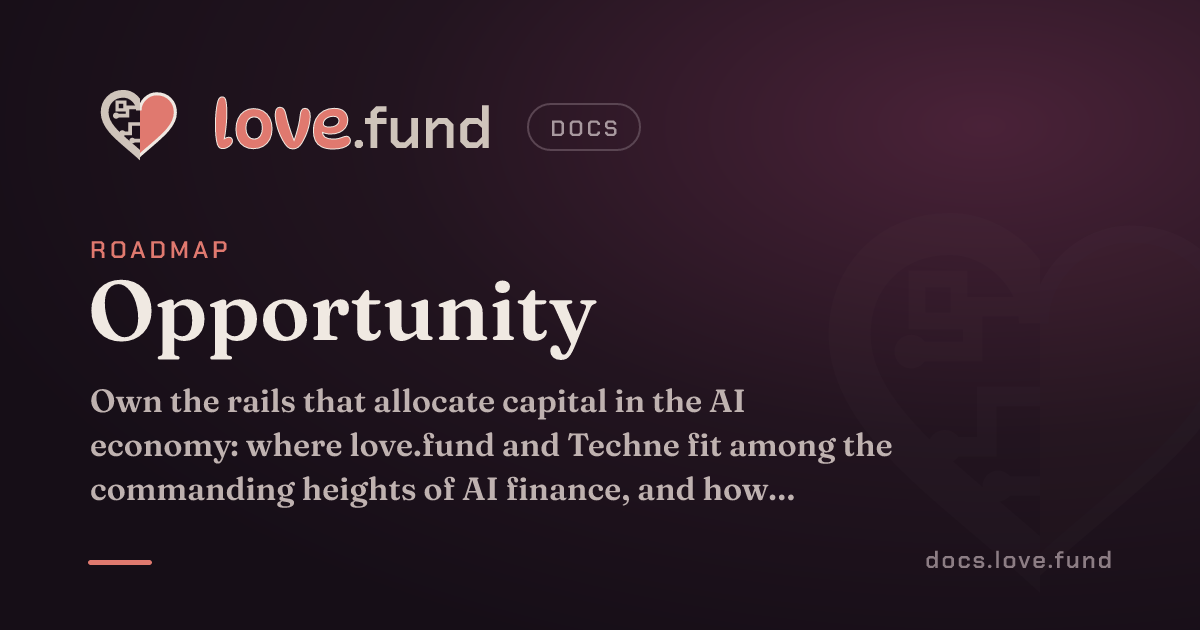
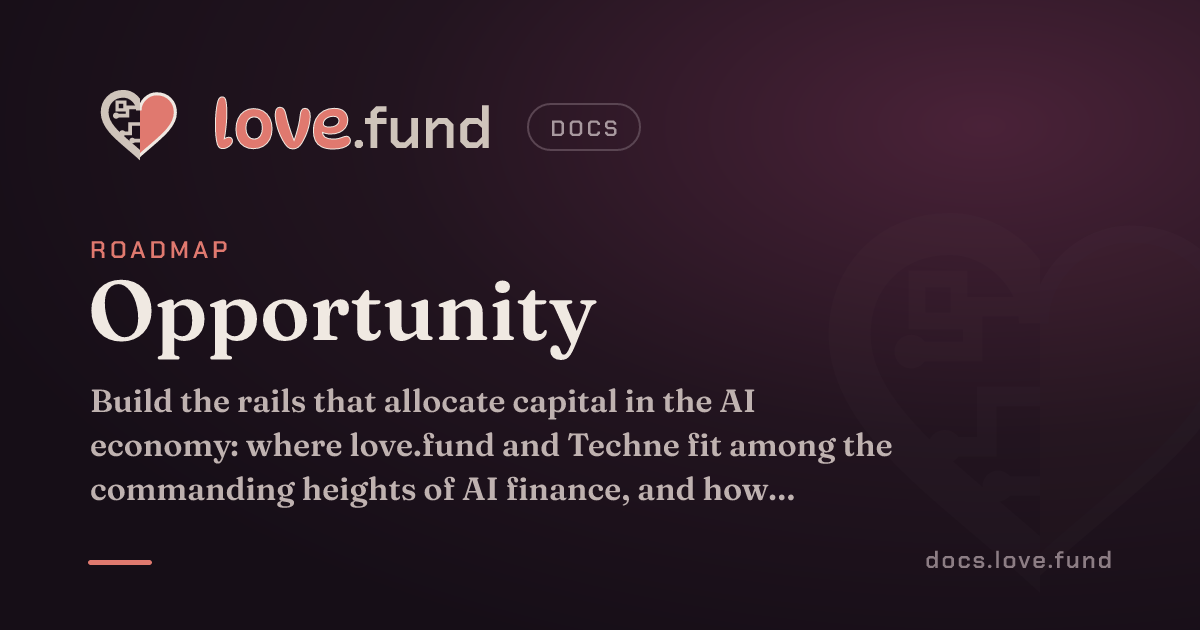
update

Changed region(s): [[0.0617, 0.6032, 0.6475, 0.6635]]

diff --git a/src/content/docs/roadmap/opportunity.md b/src/content/docs/roadmap/opportunity.md
@@ -1,6 +1,6 @@
 ---
 title: "Opportunity"
-description: "Own the rails that allocate capital in the AI economy: where love.fund and Techne fit among the commanding heights of AI finance, and how those rails bridge people into a sacred economy."
+description: "Build the rails that allocate capital in the AI economy: where love.fund and Techne fit among the commanding heights of AI finance, and how those rails bridge people into a sacred economy."
 sidebar:
   order: 0
 ---
@@ -12,12 +12,12 @@ This page maps market categories, not services love.fund offers. love.fund doesn
 **TLDR:**
 
 0. Commanding heights = The chokepoints that control an economy, and the flows that run through them.
-1. Own the commanding heights of the traditional economy.
-2. Own the commanding heights of the [sacred economy](#rails-for-a-sacred-economy).
+1. Build the commanding heights of the traditional economy.
+2. Build the commanding heights of the [sacred economy](#seven-rails-for-a-sacred-economy).
 3. Build a funnel from 1 to 2.
 4. Progressively distribute ownership of the commanding heights in both economies.
 
-## The opportunity: own the rails that allocate capital in the AI economy
+## The opportunity: build the rails that allocate capital in the AI economy
 
 The core insight of [The Commanding Heights](https://commanding-heights.com) is that the biggest fortunes won't necessarily come from creating intelligence, but from controlling how its economic value flows.
 
@@ -36,14 +36,14 @@ The emerging commanding height in finance isn't just payments or stablecoins. It
 
 ## Commanding heights of a more sacred economy
 
-Owning the commanding heights of the commodified, transactional global economy isn't the end goal. love.fund is also focused on building a [sacred economy](/start-here/dialectics/sacred-global-economy/): one where the economy serves what people hold sacred, like relationships, community, and the living world.
+Owning the commanding heights of the commodified, transactional global economy isn't the end goal. love.fund is also focused on building a [sacred economy](/ontology/dialectics/sacred-global-economy/): one where the economy serves what people hold sacred, like relationships, community, and the living world.
 
 So we want to build two sets of rails:
 
 - **Rails for the old economy.** The commanding heights above: capital discovery, allocation, underwriting, formation, and ownership. We run them at first, and progressively decentralize them to the people who use them.
 - **Rails for a more sacred, relational economy.** Infrastructure where value flows through trust and relationships instead of extraction, and where what matters gets funded even when it can't be priced.
 
-The first set is the bridge to the second. We meet people where they are, in the economy most of the world runs on, and use those rails to move them, and their capital, into a new sacred economy. (See [Towards a more sacred economy](/start-here/dialectics/sacred-global-economy/#towards-a-more-sacred-economy).)
+The first set is the bridge to the second. We meet people where they are, in the economy most of the world runs on, and use those rails to move them, and their capital, into a new sacred economy. (See [Towards a more sacred economy](/ontology/dialectics/sacred-global-economy/#towards-a-more-sacred-economy).)
 
 ### Seven rails for a sacred economy
 
@@ -51,13 +51,13 @@ Working backwards from what we've written about a sacred economy, the rails foll
 
 | Rail | What it does | Where it comes from | Closest trad commanding height |
 | --- | --- | --- | --- |
-| **1. Shield** | Patient, no-strings, multi-year capital that buys a community time and room, so it doesn't have to sell out to survive | [Sacred x Global](/start-here/dialectics/sacred-global-economy/), [Short x Long-term](/start-here/dialectics/short-long-term/) | Capital formation |
-| **2. Weave** | The trust fabric: vouching, reputation built over time, many kinds of evidence. Dreams, community plans and indigenous knowledge only become an economy when braided together | [Sacred x Global](/start-here/dialectics/sacred-global-economy/), [Trust x Verification](/start-here/dialectics/trust-verification/) | Discovery + underwriting |
-| **3. Gift** | Money that keeps moving toward need and love, passed forward instead of paid back, with enough accounting to stay fair | [Gift x Exchange](/start-here/dialectics/gift-exchange/) | Allocation (impact) |
-| **4. Meaning** | Communities name what matters in their own words first.  | [Measurement x Meaning](/start-here/dialectics/measurement-meaning/) | None: the old economy uses price |
-| **5. Boundary** | A governed commons: the right to say no, protection from capture, share-alike licenses, and things kept outside the market entirely | [Openness x Boundaries](/start-here/dialectics/openness-boundaries/), [Sovereignty x Interdependence](/start-here/dialectics/sovereignty-interdependence/) | Ownership, inverted: protecting instead of capturing |
-| **6. Membrane** | The interface where outside money enters on the community's terms and gets translated into its values, when the community decides it's ready | [Sacred x Global](/start-here/dialectics/sacred-global-economy/), [Local x Global](/start-here/dialectics/local-global/) | None |
-| **7. Federation** | Communities connecting directly to each other, not only through global intermediaries | [Local x Global](/start-here/dialectics/local-global/), [Sovereignty x Interdependence](/start-here/dialectics/sovereignty-interdependence/) | None |
+| **1. Shield** | Patient, no-strings, multi-year capital that buys a community time and room, so it doesn't have to sell out to survive | [Sacred x Global](/ontology/dialectics/sacred-global-economy/), [Short x Long-term](/ontology/dialectics/short-long-term/) | Capital formation |
+| **2. Weave** | The trust fabric: vouching, reputation built over time, many kinds of evidence. Dreams, community plans and indigenous knowledge only become an economy when braided together | [Sacred x Global](/ontology/dialectics/sacred-global-economy/), [Trust x Verification](/ontology/dialectics/trust-verification/) | Discovery + underwriting |
+| **3. Gift** | Money that keeps moving toward need and love, passed forward instead of paid back, with enough accounting to stay fair | [Gift x Exchange](/ontology/dialectics/gift-exchange/) | Allocation (impact) |
+| **4. Meaning** | Communities name what matters in their own words first.  | [Measurement x Meaning](/ontology/dialectics/measurement-meaning/) | None: the old economy uses price |
+| **5. Boundary** | A governed commons: the right to say no, protection from capture, share-alike licenses, and things kept outside the market entirely | [Openness x Boundaries](/ontology/dialectics/openness-boundaries/), [Sovereignty x Interdependence](/ontology/dialectics/sovereignty-interdependence/) | Ownership, inverted: protecting instead of capturing |
+| **6. Membrane** | The interface where outside money enters on the community's terms and gets translated into its values, when the community decides it's ready | [Sacred x Global](/ontology/dialectics/sacred-global-economy/), [Local x Global](/ontology/dialectics/local-global/) | None |
+| **7. Federation** | Communities connecting directly to each other, not only through global intermediaries | [Local x Global](/ontology/dialectics/local-global/), [Sovereignty x Interdependence](/ontology/dialectics/sovereignty-interdependence/) | None |
 
 A few things stand out:
 

diff --git a/src/content/docs/ontology/beyond-dualism.md b/src/content/docs/ontology/beyond-dualism.md
@@ -11,6 +11,15 @@ We tend to treat these as binary choices - and much of contemporary discourse on
 
 The goal isn't always to choose a side. It's to find out what becomes possible when both sides interact.
 
+## Why this is useful
+
+The fruits of this exploration are:
+
+- **Innovation.** Apparent contradictions can point to design spaces nobody has explored.
+- **Coordination.** Opposing interests can become complementary incentives.
+- **Wisdom.** Holding competing truths keeps you from ideological rigidity.
+- **Systems design.** A good synthesis can turn a zero-sum tradeoff into a positive-sum feedback loop.
+
 ## Skillful Action
 
 There are a few skillful moves you can make with a pair of opposites, and it helps to be able to toggle between them.
@@ -42,15 +51,6 @@ A good synthesis keeps the strengths of both poles and opens up a new possibilit
 4. **Balance** the poles when synthesis isn't possible or isn't wanted.
 5. **Iterate**, because every synthesis produces new tensions of its own.
 
-## Why this is useful
-
-The fruits of this exploration are:
-
-- **Innovation.** Apparent contradictions can point to design spaces nobody has explored.
-- **Coordination.** Opposing interests can become complementary incentives.
-- **Wisdom.** Holding competing truths keeps you from ideological rigidity.
-- **Systems design.** A good synthesis can turn a zero-sum tradeoff into a positive-sum feedback loop.
-
 ## Where it breaks down
 
 Not every contradiction deserves a synthesis. Some differences can't be reconciled, and some values need hard boundaries. Sometimes a proposed synthesis is just a tradeoff in disguise.
@@ -76,17 +76,17 @@ The dialectics that follow this page in the sidebar each take one pair and work 
 
 | Dualism | Potential synthesis |
 | --- | --- |
-| [Love ↔ Money](/start-here/dialectic/) | Regenerative economics: capital flows toward what we care about |
-| [Sovereignty ↔ Interdependence](/start-here/dialectics/sovereignty-interdependence/) (including individualism ↔ collectivism) | Networked sovereignty: autonomy strengthened through voluntary cooperation |
-| [Profit ↔ Purpose](/start-here/dialectics/profit-purpose/) | Regenerative enterprise: creating economic value by creating social and ecological value |
-| [Networks ↔ Hierarchies](/start-here/dialectics/networks-hierarchies/) | Heterarchy: clear ownership inside small units, open connection between them |
-| [Gift ↔ Exchange](/start-here/dialectics/gift-exchange/) | A gift economy with good accounting: money that circulates like a gift and stays fair |
-| [Scarcity ↔ Abundance](/start-here/dialectics/scarcity-abundance/) | Regenerative abundance: spend finite resources on the things that multiply |
-| [Measurement ↔ Meaning](/start-here/dialectics/measurement-meaning/) | Measurement in service of meaning: people name what matters, numbers help them learn |
-| [Local ↔ Global](/start-here/dialectics/local-global/) | Cosmolocal: global networks of local communities |
-| [Short-term ↔ Long-term](/start-here/dialectics/short-long-term/) | Stewardship: meet today's needs in ways that build for generations |
-| [Trust ↔ Verification](/start-here/dialectics/trust-verification/) | Verifiable trust: proof that extends trust beyond the people you know |
-| [Openness ↔ Boundaries](/start-here/dialectics/openness-boundaries/) | A governed commons: open by default, bounded where it counts |
-| [Being ↔ Doing](/start-here/dialectics/being-doing/) | Dharma: action that comes from presence |
-| [Global economy ↔ Sacred economy](/start-here/dialectics/sacred-global-economy/) | A sacred economy that meets the global one on its own terms |
-| [Competition ↔ Cooperation](/start-here/dialectics/competition-cooperation/) | Coopetition: competing to create more value for the commons |
+| [Love ↔ Money](/ontology/dialectic/) | Regenerative economics: capital flows toward what we care about |
+| [Sovereignty ↔ Interdependence](/ontology/dialectics/sovereignty-interdependence/) (including individualism ↔ collectivism) | Networked sovereignty: autonomy strengthened through voluntary cooperation |
+| [Profit ↔ Purpose](/ontology/dialectics/profit-purpose/) | Regenerative enterprise: creating economic value by creating social and ecological value |
+| [Networks ↔ Hierarchies](/ontology/dialectics/networks-hierarchies/) | Heterarchy: clear ownership inside small units, open connection between them |
+| [Gift ↔ Exchange](/ontology/dialectics/gift-exchange/) | A gift economy with good accounting: money that circulates like a gift and stays fair |
+| [Scarcity ↔ Abundance](/ontology/dialectics/scarcity-abundance/) | Regenerative abundance: spend finite resources on the things that multiply |
+| [Measurement ↔ Meaning](/ontology/dialectics/measurement-meaning/) | Measurement in service of meaning: people name what matters, numbers help them learn |
+| [Local ↔ Global](/ontology/dialectics/local-global/) | Cosmolocal: global networks of local communities |
+| [Short-term ↔ Long-term](/ontology/dialectics/short-long-term/) | Stewardship: meet today's needs in ways that build for generations |
+| [Trust ↔ Verification](/ontology/dialectics/trust-verification/) | Verifiable trust: proof that extends trust beyond the people you know |
+| [Openness ↔ Boundaries](/ontology/dialectics/openness-boundaries/) | A governed commons: open by default, bounded where it counts |
+| [Being ↔ Doing](/ontology/dialectics/being-doing/) | Dharma: action that comes from presence |
+| [Global economy ↔ Sacred economy](/ontology/dialectics/sacred-global-economy/) | A sacred economy that meets the global one on its own terms |
+| [Competition ↔ Cooperation](/ontology/dialectics/competition-cooperation/) | Coopetition: competing to create more value for the commons |

diff --git a/src/content/docs/roadmap/design-space.md b/src/content/docs/roadmap/design-space.md
@@ -29,13 +29,13 @@ Each era didn't replace the last. It layered on top. Rotating savings clubs, mut
 - **The tools change what's possible.** Writing gave us ledgers, coins gave us markets, the internet gave us crowdfunding, and blockchains gave us programmable treasuries. AI agents are the next shift: allocation that can read context, relationships and impact at a scale no committee could.
 - **The design space is a landscape.** Think of every possible rule or mechanism as a point on a flat grid, and how well everyone does under it as the height. Most of history has been a slow walk across that landscape. We can now search it deliberately, by remixing known mechanisms and testing new ones.
 - **Some of the best points haven't been built yet.** Combinations like retroactive quadratic funding, or a bonding curve that prices attested impact instead of market demand, are a few small edits away from mechanisms we already know.
-- **The oldest mechanisms are the most relational.** Many of the [sacred economy rails](/roadmap/opportunity/#rails-for-a-sacred-economy) we want to build, like gift, trust, commons and federation, were the default in earlier eras. The opportunity is to bring them back with the reach of modern tools.
+- **The oldest mechanisms are the most relational.** Many of the [sacred economy rails](/roadmap/opportunity/#seven-rails-for-a-sacred-economy) we want to build, like gift, trust, commons and federation, were the default in earlier eras. The opportunity is to bring them back with the reach of modern tools.
 
 ## Ancient futures
 
 The design space doesn't only point forward. Some of the most important mechanisms are the oldest ones: gift circles, mutual aid, commons, rotating savings, redistribution feasts, the ethic of Ubuntu ("I am because we are"). They kept people fed and held for thousands of years, long before banks, insurers or welfare states existed.
 
-To borrow Helena Norberg-Hodge's phrase, the future we want looks more like an **ancient future**. Not a return to the past, but a chance to re-indigenize and re-relationalize ourselves: to remember that an economy is made of relationships, with each other and with the living world, and to rebuild it that way with the tools of this era. That's what a [sacred economy](/start-here/dialectics/sacred-global-economy/) is.
+To borrow Helena Norberg-Hodge's phrase, the future we want looks more like an **ancient future**. Not a return to the past, but a chance to re-indigenize and re-relationalize ourselves: to remember that an economy is made of relationships, with each other and with the living world, and to rebuild it that way with the tools of this era. That's what a [sacred economy](/ontology/dialectics/sacred-global-economy/) is.
 
 This matters now because the old systems are breaking down. Jobs are being automated faster than people can retrain, institutions people counted on are under strain, and the safety nets of the industrial era were built for a world that's going away. When they fray, what's left is what has always been there: community.
 

diff --git a/src/content/docs/ontology/dialectics/sacred-global-economy.md b/src/content/docs/ontology/dialectics/sacred-global-economy.md
@@ -9,7 +9,7 @@ The modern global economy is the system most of the world runs on: markets, capi
 
 They look opposed. The global economy is powerful, productive and connected, but it tends to extract, flatten difference and turn everything into a commodity. A sacred economy is rooted, meaningful and regenerative, but on its own it can be small, under-resourced and vulnerable to being overrun.
 
-This page looks at the tension between them, then at a picture of the journey from one to the other. (For the general method, see [Beyond Dualism](/start-here/beyond-dualism/).)
+This page looks at the tension between them, then at a picture of the journey from one to the other. (For the general method, see [Beyond Dualism](/ontology/beyond-dualism/).)
 
 ## The dialectic
 
@@ -61,7 +61,7 @@ Two details stand out. First, it's woven: these threads only become an economy w
 
 ### What it means for love.fund
 
-This is a picture of what [Love x Fund](/start-here/dialectic/) is reaching for: money that serves what people love, rather than people serving money. It suggests a few things about how we fund:
+This is a picture of what [Love x Fund](/ontology/dialectic/) is reaching for: money that serves what people love, rather than people serving money. It suggests a few things about how we fund:
 
 - **Funding can be protective.** Sometimes the most useful thing money can do is give a community room to learn without having to sell out to survive.
 - **Let communities set the pace.** "When you feel ready" is their call, not the funder's.
@@ -93,4 +93,4 @@ The point is that the boundary is the community's to draw.
 
 The global economy without the sacred becomes extraction. The sacred without any interface to the wider world becomes fragile.
 
-Done well, each one feeds the other. A sacred economy gives money a compass, and the global economy gives the sacred the tools and reach to grow. This is what [Love x Fund](/start-here/dialectic/) is reaching for: money that serves what people love, rather than people serving money.
+Done well, each one feeds the other. A sacred economy gives money a compass, and the global economy gives the sacred the tools and reach to grow. This is what [Love x Fund](/ontology/dialectic/) is reaching for: money that serves what people love, rather than people serving money.

diff --git a/src/content/docs/ontology/dialectics/local-global.md b/src/content/docs/ontology/dialectics/local-global.md
@@ -9,7 +9,7 @@ The local is a particular place and its people: their land, language, knowledge 
 
 They look opposed. Local communities are rooted, specific and accountable, but they can be isolated, under-resourced and parochial. Global systems are powerful, connected and resource-rich, but they tend to flatten difference, extract value and set the terms from far away.
 
-This connects closely to [Sovereignty x Interdependence](/start-here/dialectics/sovereignty-interdependence/) and to the picture in [Towards a More Sacred Economy](/start-here/dialectics/sacred-global-economy/#towards-a-more-sacred-economy). The question is how the global can serve the local rather than consume it. (For the general method, see [Beyond Dualism](/start-here/beyond-dualism/).)
+This connects closely to [Sovereignty x Interdependence](/ontology/dialectics/sovereignty-interdependence/) and to the picture in [Towards a More Sacred Economy](/ontology/dialectics/sacred-global-economy/#towards-a-more-sacred-economy). The question is how the global can serve the local rather than consume it. (For the general method, see [Beyond Dualism](/ontology/beyond-dualism/).)
 
 ## The dialectic
 
@@ -36,7 +36,7 @@ But it can flow the other way too. Global capital and knowledge can move toward 
 
 - **Global funding, local decisions.** Money can come from anywhere. What to do with it gets decided by the people who live there.
 - **Shared knowledge, local adaptation.** Open tools and designs that each community shapes to its own place.
-- **Shield first, then interface.** As in [Towards a More Sacred Economy](/start-here/dialectics/sacred-global-economy/#towards-a-more-sacred-economy), communities build their own economy before they meet the global one on their own terms.
+- **Shield first, then interface.** As in [Towards a More Sacred Economy](/ontology/dialectics/sacred-global-economy/#towards-a-more-sacred-economy), communities build their own economy before they meet the global one on their own terms.
 - **Solidarity across places.** Local communities connecting to each other directly, not only through global intermediaries.
 
 ## When to hold them apart

diff --git a/src/content/docs/ontology/dialectics/sovereignty-interdependence.md b/src/content/docs/ontology/dialectics/sovereignty-interdependence.md
@@ -9,7 +9,7 @@ Sovereignty is the ability to decide for yourself: your own values, your own res
 
 They look opposed. More of one seems to mean less of the other. Lean too far toward sovereignty and you end up isolated. Lean too far toward interdependence and you end up dependent.
 
-The question is whether you can design for both at once. (For the general method, see [Beyond Dualism](/start-here/beyond-dualism/).)
+The question is whether you can design for both at once. (For the general method, see [Beyond Dualism](/ontology/beyond-dualism/).)
 
 ## The dialectic
 
@@ -34,7 +34,7 @@ That's true of ties you can't leave. It's much less true of ties you chose and c
 
 ## What it looks like in practice
 
-- **Communities that can say no.** In the [Towards a More Sacred Economy](/start-here/dialectics/sacred-global-economy/#towards-a-more-sacred-economy) picture, finance first shields a community from extraction while it builds its own economy, then lets it meet the wider economy on its own terms. That's sovereignty first, then interdependence by choice.
+- **Communities that can say no.** In the [Towards a More Sacred Economy](/ontology/dialectics/sacred-global-economy/#towards-a-more-sacred-economy) picture, finance first shields a community from extraction while it builds its own economy, then lets it meet the wider economy on its own terms. That's sovereignty first, then interdependence by choice.
 - **Funding without capture.** Money can connect a project to a wider network without handing over control of what the project is for.
 - **Federation over centralization.** Many small, self-governing groups that coordinate where it helps, rather than one big group that decides for everyone.
 - **Mutual aid.** People keep their independence and still show up for each other, because the relationship is reciprocal and freely chosen.

diff --git a/src/content/docs/ontology/index.md b/src/content/docs/ontology/index.md
@@ -25,7 +25,7 @@ What you see on social media these days is mostly these tribes talking past each
 
 That raises a hard question: how can we understand the points other people are making when we don't have an ontological transmission protocol, and most of us can't think from inside another ontology?
 
-Our starting point for this is [Beyond Dualism](/start-here/beyond-dualism/).
+Our starting point for this is [Beyond Dualism](/ontology/beyond-dualism/).
 
 ## Start with ontology
 
@@ -33,9 +33,9 @@ Our ontology informs everything we do: the mission, the roadmap, the mechanisms 
 
 So we try to make ours explicit. The pages in this section lay it out:
 
-- **[Mission: Fund What Matters](/start-here/fund-what-matters/)**: what we're for.
-- **[Beyond Dualism](/start-here/beyond-dualism/)**: how we work with opposites like love and money, rather than choosing between them.
-- **[Dialectic: Love x Funding](/start-here/dialectic/)** and the dialectics that follow: the tensions at the heart of a new economy, and what each side protects.
-- **[The Upward Spiral](/start-here/upward-spiral/)**: how those tensions, held well, feed each other and move upward.
+- **[Mission: Fund What Matters](/ontology/fund-what-matters/)**: what we're for.
+- **[Beyond Dualism](/ontology/beyond-dualism/)**: how we work with opposites like love and money, rather than choosing between them.
+- **[Dialectic: Love x Funding](/ontology/dialectic/)** and the dialectics that follow: the tensions at the heart of a new economy, and what each side protects.
+- **[The Upward Spiral](/ontology/upward-spiral/)**: how those tensions, held well, feed each other and move upward.
 
 It's a living ontology. We expect it to change as we learn, and we'd rather argue about it in the open than leave it unexamined.

diff --git a/src/content/docs/ontology/dialectics/scarcity-abundance.md b/src/content/docs/ontology/dialectics/scarcity-abundance.md
@@ -9,7 +9,7 @@ Scarcity is the fact that resources run out. There are only so many hours, so mu
 
 They look opposed. A scarcity mindset is prudent and realistic, but it can turn into hoarding, fear and zero-sum competition. An abundance mindset is generous and hopeful, but it can turn into denial, waste and promises nobody can keep.
 
-The [Love x Funding](/start-here/dialectic/) page says it plainly: love is infinite, resources are finite. The question is how to live with both. (For the general method, see [Beyond Dualism](/start-here/beyond-dualism/).)
+The [Love x Funding](/ontology/dialectic/) page says it plainly: love is infinite, resources are finite. The question is how to live with both. (For the general method, see [Beyond Dualism](/ontology/beyond-dualism/).)
 
 ## The dialectic
 
@@ -34,7 +34,7 @@ But different resources behave differently. Atoms and energy are finite. Bits co
 
 ## What it looks like in practice
 
-- **Know which resource you're dealing with.** The [six-part economy](/start-here/dialectic/#a-six-part-economy) (atoms, energy, bits, currency, attention, creativity) don't all run out the same way.
+- **Know which resource you're dealing with.** The [six-part economy](/ontology/dialectic/#a-six-part-economy) (atoms, energy, bits, currency, attention, creativity) don't all run out the same way.
 - **Spend scarce things on abundant ones.** Put limited money toward the commons, open knowledge and relationships that keep producing.
 - **Share what doesn't diminish.** Open source, open research, shared tools and stories.
 - **Watch for artificial scarcity.** Notice when "there isn't enough" really means "it's being held back."

diff --git a/src/content/docs/roadmap/architecture.md b/src/content/docs/roadmap/architecture.md
@@ -66,7 +66,7 @@ That's what the [wide aperture path](/roadmap/wide-aperture-path/) needs: a plug
 
 ### 4. Lexicons are where the real leverage is
 
-If apps agree on what a "project," a "contribution," a "vouch" or a "funding flow" is, the definitions shape the whole economy built on top. Whoever writes the lexicons defines what counts as value. That makes them a place to encode the [sacred economy rails](/roadmap/opportunity/#rails-for-a-sacred-economy): record types for gifts and gratitude, not only transactions; for meaning in a community's own words, not only metrics. 
+If apps agree on what a "project," a "contribution," a "vouch" or a "funding flow" is, the definitions shape the whole economy built on top. Whoever writes the lexicons defines what counts as value. That makes them a place to encode the [sacred economy rails](/roadmap/opportunity/#seven-rails-for-a-sacred-economy): record types for gifts and gratitude, not only transactions; for meaning in a community's own words, not only metrics. 
 
 ### 5. Spaces are the boundary and the membrane
 

diff --git a/src/content/docs/ontology/dialectics/being-doing.md b/src/content/docs/ontology/dialectics/being-doing.md
@@ -9,7 +9,7 @@ Being is the inner life: presence, practice, clarity about what you love. Metta,
 
 They look opposed. Inner work is grounding and wise, but it can turn into withdrawal, spiritual bypassing or navel-gazing while the world burns. Outer work is effective and urgent, but it can turn into burnout, busyness and action disconnected from any real love.
 
-The [Love x Funding](/start-here/dialectic/) page has a personal side (values, scorecards, dharma) and a systems side (money that flows like metta). This dialectic is about how they connect. (For the general method, see [Beyond Dualism](/start-here/beyond-dualism/).)
+The [Love x Funding](/ontology/dialectic/) page has a personal side (values, scorecards, dharma) and a systems side (money that flows like metta). This dialectic is about how they connect. (For the general method, see [Beyond Dualism](/ontology/beyond-dualism/).)
 
 ## The dialectic
 

diff --git a/src/content/docs/ontology/dialectics/trust-verification.md b/src/content/docs/ontology/dialectics/trust-verification.md
@@ -9,7 +9,7 @@ Trust is believing in someone because of a relationship: you know them, someone 
 
 They look opposed. Trust is warm, fast and human, but it doesn't scale beyond the people you know, and it can be exploited or turn into insider networks. Verification scales to strangers and resists fraud, but it can be cold, intrusive and expensive, and it can shut out people who don't fit the checklist.
 
-This is especially relevant to onchain funding, where anyone can create many wallets and Sybil attacks are a constant threat. (For the general method, see [Beyond Dualism](/start-here/beyond-dualism/).)
+This is especially relevant to onchain funding, where anyone can create many wallets and Sybil attacks are a constant threat. (For the general method, see [Beyond Dualism](/ontology/beyond-dualism/).)
 
 ## The dialectic
 

diff --git a/src/content/docs/ontology/dialectics/measurement-meaning.md b/src/content/docs/ontology/dialectics/measurement-meaning.md
@@ -9,7 +9,7 @@ Measurement is how we know whether something is working: numbers, outcomes, evid
 
 They look opposed. Measurement makes funding accountable, comparable and scalable, but it tends to favor whatever is easy to count, and what gets counted gets gamed. Meaning keeps the work honest about its purpose, but it can be vague, unaccountable, and easy to claim without proof.
 
-This is a real tension for any funding mechanism, including love.fund. The question is how to measure without losing what matters. (For the general method, see [Beyond Dualism](/start-here/beyond-dualism/).)
+This is a real tension for any funding mechanism, including love.fund. The question is how to measure without losing what matters. (For the general method, see [Beyond Dualism](/ontology/beyond-dualism/).)
 
 ## The dialectic
 
